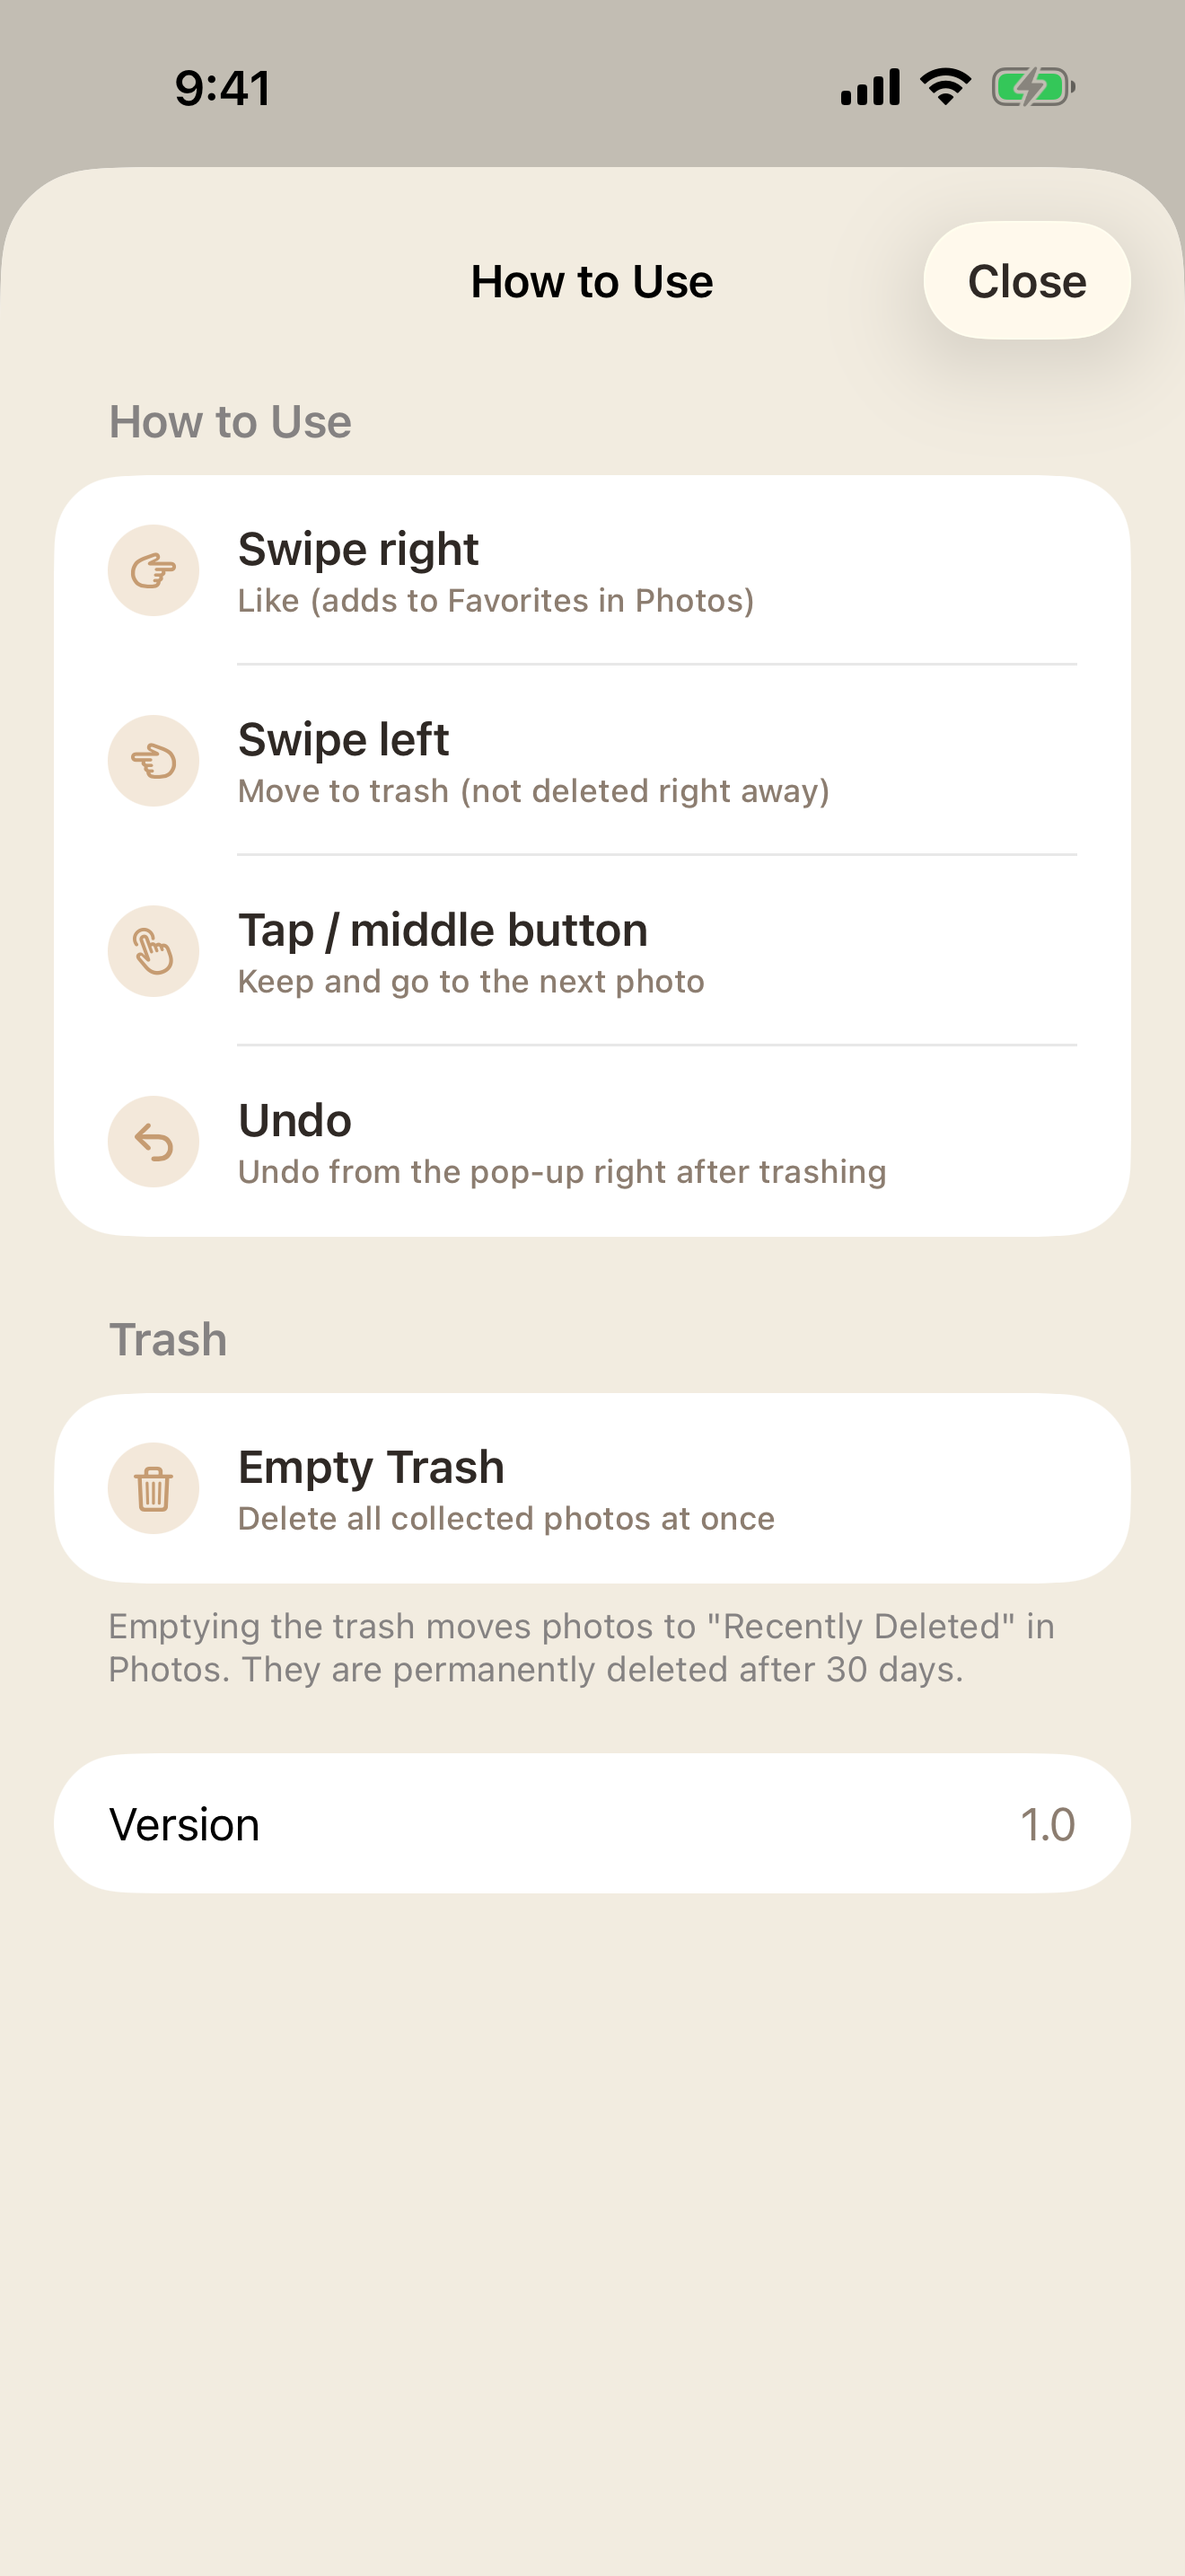
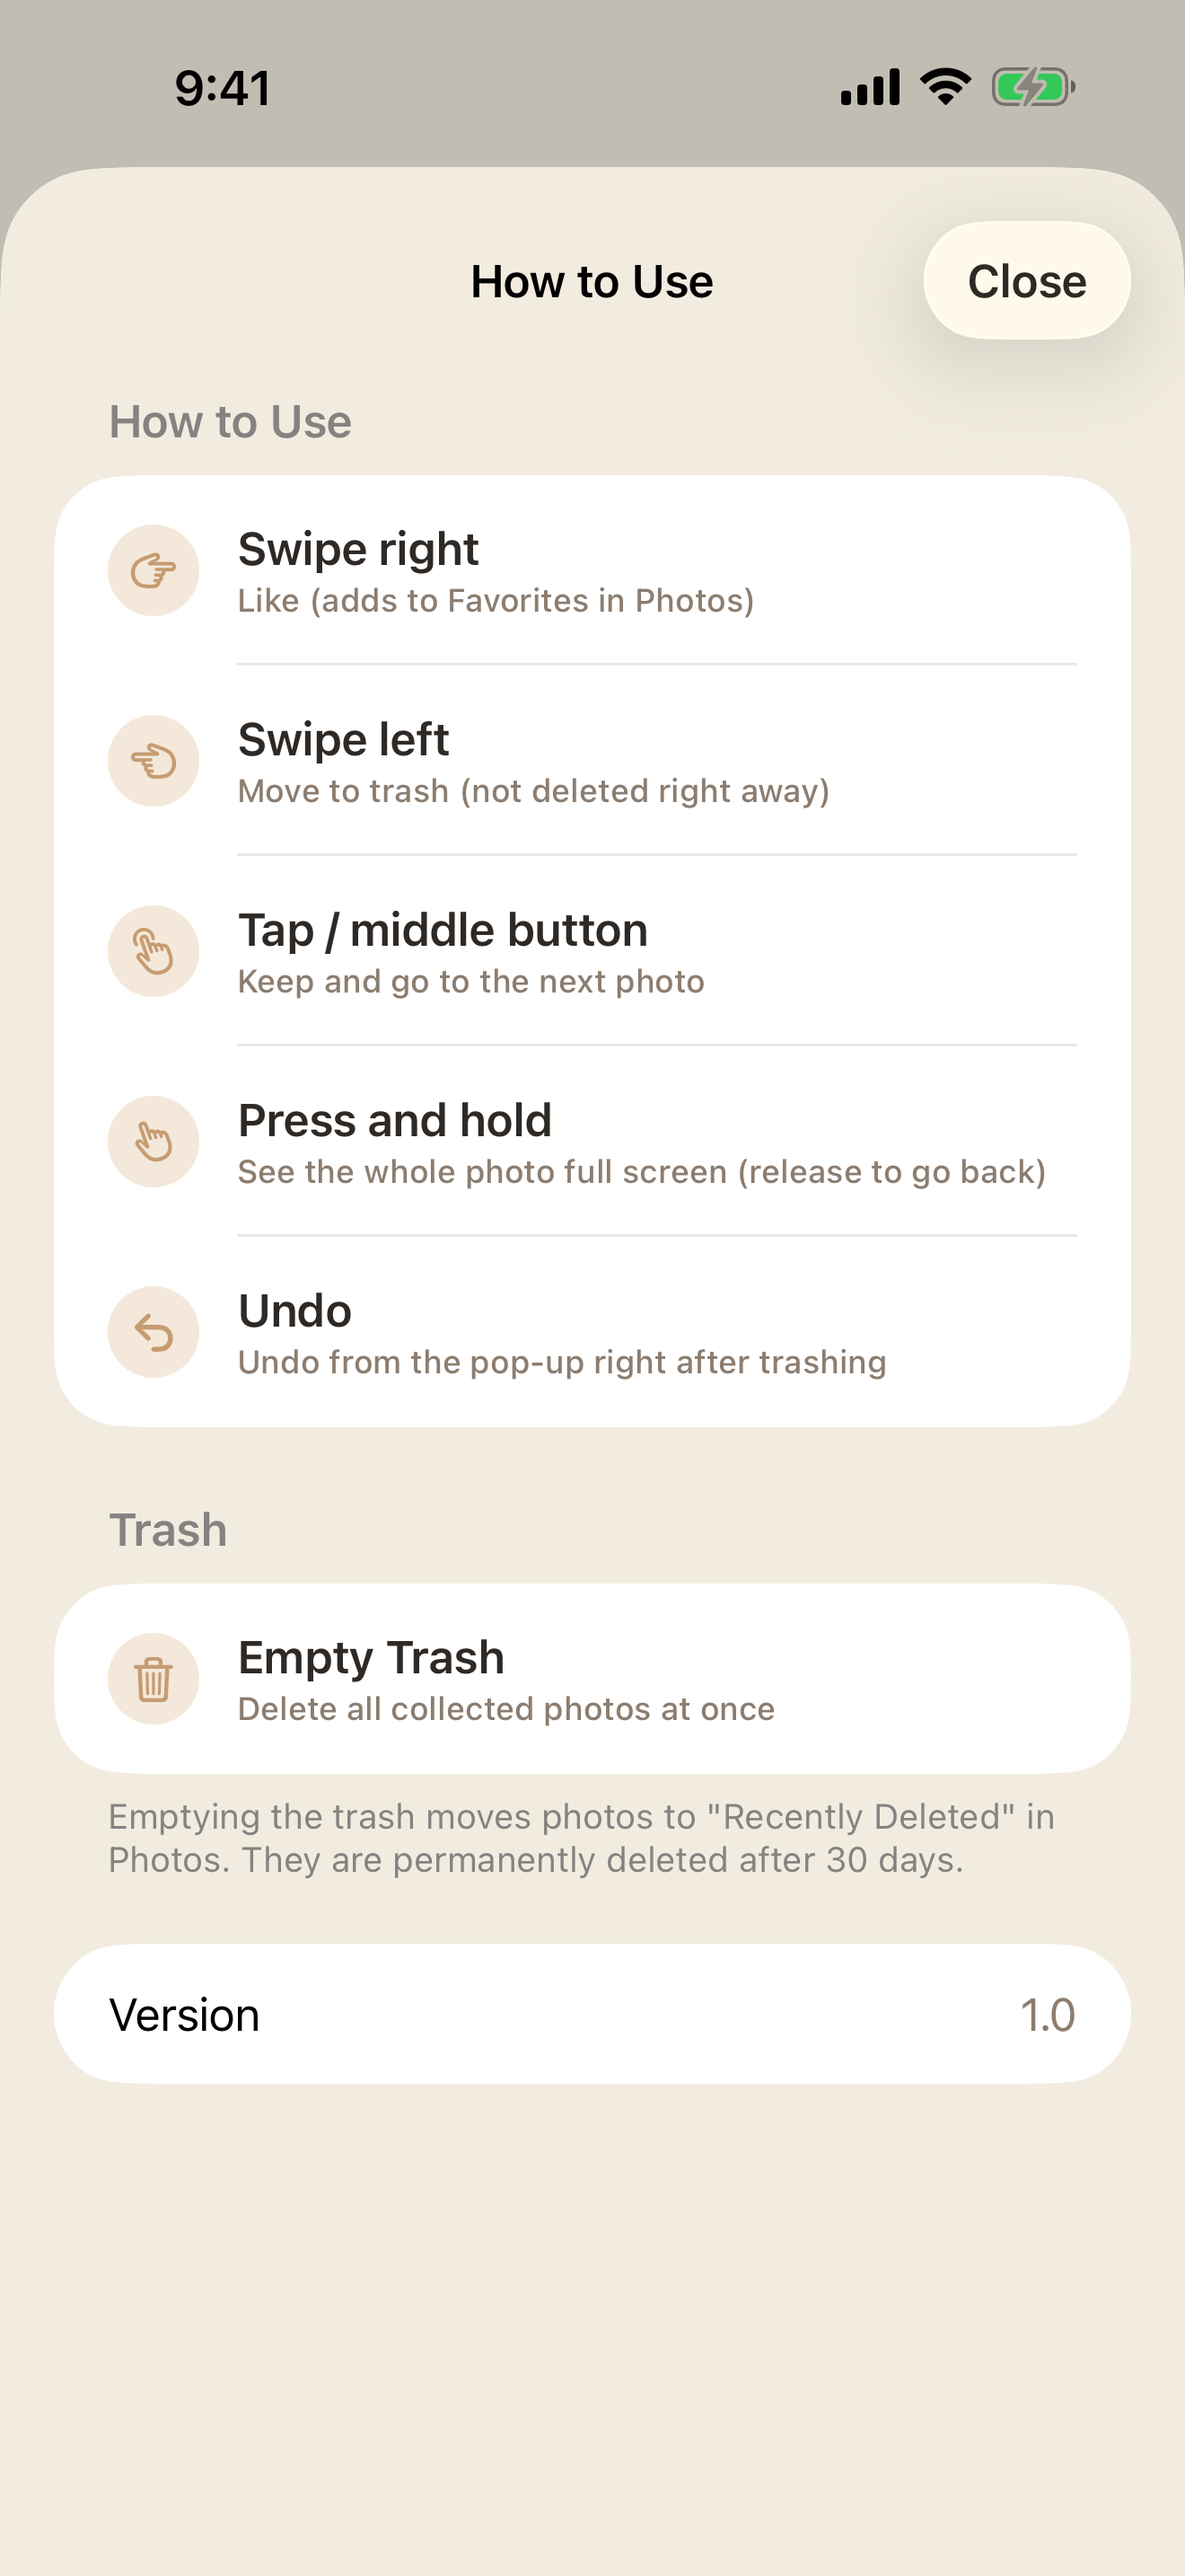
Refresh screenshots and docs for peek, freed space and seen/total
- Screenshot test captures Home after reviewing, so the reviewed/total
  count and trash count are filled in
- Recapture App Store screenshots (ko/en, 6.9")
- README and FAQ: press-and-hold full screen, freed space, reviewed /
  total on Home, Unseen Only at the top of filters

Changed region(s): [[0.0311, 0.4034, 0.9629, 0.8068]]

diff --git a/mindPICUITests/ScreenshotTests.swift b/mindPICUITests/ScreenshotTests.swift
@@ -30,11 +30,10 @@ final class ScreenshotTests: XCTestCase {
         ]
         app.launch()
 
-        // 1. 홈 (스플래시가 끝날 때까지 대기)
+        // 스플래시가 끝날 때까지 대기
         let start = app.buttons["home.start"]
         XCTAssertTrue(start.waitForExistence(timeout: 10))
         waitUntilHittable(start)
-        snapshot("01-home")
 
         // 2. 리뷰 화면
         start.tap()
@@ -73,10 +72,15 @@ final class ScreenshotTests: XCTestCase {
         pause(2) // 썸네일 로딩 대기
         snapshot("05-trash")
 
-        // 6. 사용법
+        // 1. 홈: 사진 접근을 허용하고 몇 장 정리한 뒤라 "본 사진 n / 전체"와 휴지통 수가 보인다.
         goBack()
         let info = app.buttons["home.info"]
         XCTAssertTrue(info.waitForExistence(timeout: 5))
+        waitUntilHittable(info)
+        pause(1) // 전체 사진 수 계산 대기
+        snapshot("01-home")
+
+        // 6. 사용법
         waitUntilHittable(info) // 뒤로 가기 애니메이션 중에 누르면 무시된다
         info.tap()
         XCTAssertTrue(app.buttons["sheet.close"].waitForExistence(timeout: 3))

diff --git a/README.md b/README.md
@@ -18,6 +18,7 @@
 | 👉 오른쪽으로 밀기 | **좋아요** — '사진' 앱 즐겨찾기에 추가 |
 | 👈 왼쪽으로 밀기 | **휴지통** — 앱 휴지통으로 이동 (바로 실행 취소 가능) |
 | 👆 탭 | **보관** — 그대로 두고 다음 사진으로 |
+| ✋ 길게 누르기 | **전체 화면** — 사진 전체를 화면 가득 보기 (손을 떼면 돌아와요) |
 
 스와이프가 어색하면 사진 아래 **휴지통 · 보관 · 좋아요** 버튼으로도 똑같이 할 수 있어요.
 
@@ -31,7 +32,8 @@
 ### 1. 홈
 
 - **사진 탐색 시작**을 누르면 바로 정리를 시작합니다.
-- 지금까지 **본 사진** 수와 **휴지통**에 모인 사진 수를 한눈에 볼 수 있어요.
+- 사진첩 전체 중 **본 사진**이 몇 장인지(예: 6 / 11)와 **휴지통**에 모인 사진 수를 한눈에 볼 수 있어요.
+- 휴지통을 비운 적이 있다면 **지금까지 확보한 공간**도 보여줘요.
 - 오른쪽 위 ⚙ **설정**에서 본 사진 기록을 초기화하거나 사진 접근 권한을 바꿀 수 있고, ❓ **사용법**에서 동작을 다시 확인할 수 있어요.
 
 </td>
@@ -46,6 +48,7 @@
 - 위쪽 **진행 막대**로 몇 장 남았는지 확인하고, 사진 왼쪽 아래에서 **찍은 날짜**를 볼 수 있어요.
 - 이미 즐겨찾기에 있는 사진은 왼쪽 위에 **하트 배지**가 붙어요.
 - 다음 사진이 카드 뒤에 미리 준비되어 있어서, 넘기는 순간 바로 선명하게 보여요.
+- 카드는 화면에 맞게 사진을 잘라 보여줘요. 사진을 **길게 누르고 있으면** 잘린 부분 없이 전체 화면으로 볼 수 있고, 손을 떼면 돌아와요.
 - **이전**으로 돌아가거나 **5장 건너뛰기**로 빠르게 넘길 수 있고, 오른쪽 위 버튼으로 사진을 **공유**할 수 있어요.
 
 </td>
@@ -69,13 +72,13 @@
 
 왼쪽 위 필터 버튼으로 정리할 사진을 고릅니다.
 
+- **안 본 사진만 보기** — 한 번 넘긴 사진은 다시 나오지 않게 (필터 맨 위에 있어요)
 - **랜덤 100장** — 부담 없이 조금씩 (기본)
 - **랜덤 1개월** — 잊고 있던 한 달을 꺼내 보기
 - **N년 전 오늘** (±15일) — 그날의 추억을 다시 보며 정리
 - **최근 7일 / 30일**, **원하는 달 선택**
 - **인물 사진**, **즐겨찾기 안 된 사진**, **스크린샷**, **연사**
 - **기기에 있는 사진만 보기** — iCloud에서 받아야 하는 사진은 건너뛰어 기다림 없이 보기
-- **안 본 사진만 보기** — 한 번 넘긴 사진은 다시 나오지 않게
 
 </td>
 </tr>
@@ -86,8 +89,10 @@
 ### 5. 휴지통에서 마지막 확인
 
 - 왼쪽으로 민 사진은 여기 모입니다. 아직 사진첩에서 지워지지 않았어요.
+- 위쪽에 **비우면 확보할 수 있는 용량**이 표시돼요.
 - 사진을 **탭하거나 길게 눌러 복원**할 수 있어요.
 - **휴지통 비우기**를 누르면 시스템 확인 창이 뜨고, 확인하면 '사진' 앱의 **최근 삭제된 항목**으로 이동해 30일 동안 한 번 더 되살릴 수 있어요.
+- 비우고 나면 **이번에 확보한 공간**과 **지금까지의 합계**를 보여줘요. (실제 공간은 '최근 삭제된 항목'을 비우거나 30일이 지나면 비워져요.)
 
 </td>
 </tr>
@@ -213,14 +218,15 @@ App Store Connect 입력값과 순서는 [출시 체크리스트](docs/release-c
 | 👉 Swipe right | **Like** — adds to Favorites in the Photos app |
 | 👈 Swipe left | **Trash** — moves to the in-app trash (undo right away) |
 | 👆 Tap | **Keep** — leave it and see the next photo |
+| ✋ Press and hold | **Full screen** — see the whole photo (release to go back) |
 
 Prefer buttons? **Trash · Keep · Like** sit right below the photo.
 
-- **Home**: see how many photos you've reviewed and trashed, then tap **Start Reviewing**.
-- **Review**: a progress bar shows how far you are, the capture date sits on the photo, and photos already in Favorites get a heart badge. The next photo waits behind the current card, so it's sharp the moment you swipe.
+- **Home**: see how many photos you've reviewed out of your whole library (e.g. 6 / 11), how many are in the trash, and how much space you've freed so far.
+- **Review**: a progress bar shows how far you are, the capture date sits on the photo, and photos already in Favorites get a heart badge. The next photo waits behind the current card, so it's sharp the moment you swipe. Press and hold to see the whole, uncropped photo full screen.
 - **Undo**: tap **Undo** right after trashing a photo, or restore it later from the trash.
-- **Filters**: Random 100, random month, on this day N years ago (±15 days), last 7/30 days, any month, portraits, not in Favorites, screenshots, bursts — plus **On-Device Photos Only** and **Unseen Only**.
-- **Trash**: tap or long-press to restore. **Empty Trash** moves photos to "Recently Deleted" in the Photos app, where they stay for 30 days.
+- **Filters**: **Unseen Only** sits at the top, then Random 100, random month, on this day N years ago (±15 days), last 7/30 days, any month, portraits, not in Favorites, screenshots, bursts — plus **On-Device Photos Only**.
+- **Trash**: see how much space emptying will free; tap or long-press to restore. **Empty Trash** moves photos to "Recently Deleted" in the Photos app (kept for 30 days) and shows how much you just freed.
 - **Fast with iCloud Photos**: on-device photos are shown first and iCloud-only photos are downloaded ahead of time (not on cellular, Low Data, or Low Power mode), with a progress ring and Retry if a download fails.
 - **Private by design**: no account, no ads, no analytics — everything stays on your device.
 - Korean and English, Dynamic Type, VoiceOver. Requires iPhone with iOS 17.0+; built with SwiftUI and PhotoKit.

diff --git a/docs/support.md b/docs/support.md
@@ -22,6 +22,9 @@ mind PIC을 이용해 주셔서 감사합니다. 궁금한 점은 아래 자주 
 
 스와이프 대신 사진 아래 **휴지통 · 보관 · 좋아요** 버튼을 눌러도 됩니다.
 
+**Q. 사진이 잘려 보여요. 전체를 보고 싶어요.**
+카드는 화면에 맞게 사진을 잘라 보여줘요. 사진을 **길게 누르고 있으면** 전체 화면으로 사진 전체를 볼 수 있고, 손을 떼면 돌아와요.
+
 **Q. 사진 왼쪽 위에 하트가 있어요.**
 이미 '사진' 앱 즐겨찾기에 있거나 mind PIC에서 좋아요한 사진이라는 표시입니다.
 
@@ -30,6 +33,12 @@ mind PIC을 이용해 주셔서 감사합니다. 궁금한 점은 아래 자주 
 
 **Q. 휴지통을 비우면 사진이 바로 사라지나요?**
 아니요. '사진' 앱의 **최근 삭제된 항목**으로 이동하며, 30일 동안은 '사진' 앱에서 복구할 수 있습니다. 30일이 지나면 영구 삭제됩니다.
+
+**Q. 휴지통을 비웠는데 iPhone 저장 공간이 그대로예요.**
+지운 사진은 '사진' 앱의 **최근 삭제된 항목**에 30일 동안 남아 있어요. 그곳을 비우거나 30일이 지나면 공간이 실제로 비워집니다. 앱에 표시되는 "확보한 공간"은 정리한 사진의 용량이에요.
+
+**Q. 홈의 '본 사진 6 / 120'은 무슨 뜻인가요?**
+사진첩 전체 사진 중 지금까지 넘겨 본 사진 수예요. 사진 접근을 허용하기 전에는 본 사진 수만 보여요.
 
 **Q. '안 본 사진만 보기'에 사진이 하나도 안 나와요.**
 이미 모두 확인한 경우입니다. 홈 오른쪽 위 **⚙ 설정** > **본 사진 기록 초기화**를 누르면 처음부터 다시 볼 수 있어요. 사진은 삭제되지 않습니다.
@@ -83,6 +92,9 @@ Open an issue on [GitHub Issues](https://github.com/minD3D/mindPic/issues/new) a
 **How do I use it?**
 Swipe right to like (adds to Favorites in Photos), swipe left to move to the in-app trash, and tap to keep and see the next photo. You can also use the **Trash · Keep · Like** buttons below the photo.
 
+**The photo looks cropped. How do I see all of it?**
+Cards are cropped to fit the screen. **Press and hold** the photo to see the whole image full screen; release to go back.
+
 **What's the heart in the top-left corner of a photo?**
 It marks photos that are already in Favorites or that you liked in mind PIC.
 
@@ -91,6 +103,12 @@ Tap **Undo** at the bottom of the screen right after trashing. Otherwise, go to 
 
 **Does emptying the trash delete photos immediately?**
 No. Photos move to **Recently Deleted** in the Photos app, where you can recover them for 30 days.
+
+**I emptied the trash but my iPhone storage didn't change.**
+Deleted photos stay in **Recently Deleted** in the Photos app for 30 days. The space is released once you empty it there or after 30 days. "Freed" in the app shows the size of the photos you cleaned up.
+
+**What does "Reviewed 6 / 120" on Home mean?**
+It's how many photos you've reviewed out of your whole library. Before you allow photo access, only the reviewed count is shown.
 
 **"Unseen Only" shows no photos.**
 You've reviewed them all. Tap **⚙ Settings** in the top-right of Home > **Reset Review History** to start over. No photos are deleted.
